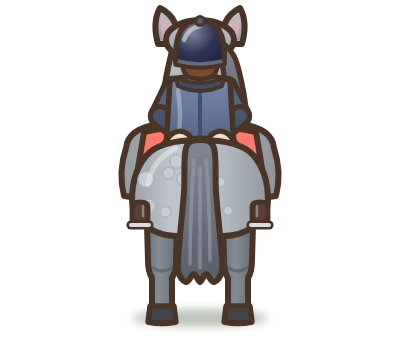
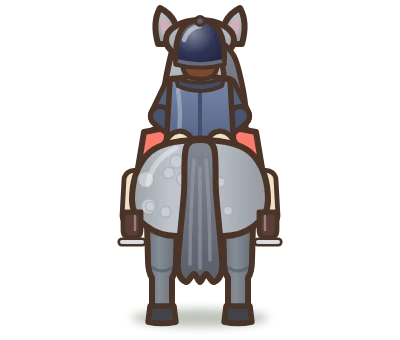
WIP: character.raceRider (rider layer over the race mount), MLS wiring
Claude-Session: https://claude.ai/code/session_011bftBeXudnSzAMBxDFXhpR

Changed region(s): [[0.6, 0.3529, 0.72, 0.7353], [0.27, 0.3529, 0.39, 0.7353]]

diff --git a/game.config.js b/game.config.js
@@ -154,6 +154,9 @@ window.GAME = {
       flank_golden: { path: "assets/img/flank_palomino.webp", res: 2 }, flank_golden_done: { path: "assets/img/flank_palomino_done.webp", res: 2 },
       flank_white: { path: "assets/img/flank_blanc.webp", res: 2 }, flank_white_done: { path: "assets/img/flank_blanc_done.webp", res: 2 },
       horse_back_bai: { path: "assets/img/horse_back_bai.webp", res: 2 }, horse_back_noir: { path: "assets/img/horse_back_noir.webp", res: 2 },
+      // race: the player's own rider seen from behind (drawn over the horse) + rival competitors
+      rider_back_fille: { path: "assets/img/rider_back_fille.webp", res: 2 }, rider_back_garcon: { path: "assets/img/rider_back_garcon.webp", res: 2 },
+      race_rival_noir: { path: "assets/img/race_rival_noir.webp", res: 2 }, race_rival_gris: { path: "assets/img/race_rival_gris.webp", res: 2 },
       horse_back_gris: { path: "assets/img/horse_back_gris.webp", res: 2 }, horse_back_palomino: { path: "assets/img/horse_back_palomino.webp", res: 2 },
       horse_back_blanc: { path: "assets/img/horse_back_blanc.webp", res: 2 },
       race_log: { path: "assets/img/race_log.webp", res: 2 }, race_hurdle: { path: "assets/img/race_hurdle.webp", res: 2 },
@@ -183,8 +186,8 @@ window.GAME = {
     shadow: { w: 34, h: 12 },
   },
   characters: [
-    { id: "fille", name: "Cavalière", sheet: "kid_fille", rideSheet: "kid_fille_ride", thumb: "assets/ui/kid_fille.webp" },
-    { id: "garcon", name: "Cavalier", sheet: "kid_garcon", rideSheet: "kid_garcon_ride", thumb: "assets/ui/kid_garcon.webp" },
+    { id: "fille", name: "Cavalière", sheet: "kid_fille", rideSheet: "kid_fille_ride", raceRider: "rider_back_fille", thumb: "assets/ui/kid_fille.webp" },
+    { id: "garcon", name: "Cavalier", sheet: "kid_garcon", rideSheet: "kid_garcon_ride", raceRider: "rider_back_garcon", thumb: "assets/ui/kid_garcon.webp" },
   ],
 
   /* ---- Horses ---- */
@@ -279,8 +282,8 @@ window.GAME = {
     obstacles: [
       { sprite: "race_log", every: 34, phase: 0, scale: 6.5, hw: 0.32, spread: 0.5 },
       { sprite: "race_hurdle", every: 46, phase: 20, scale: 6.5, hw: 0.32, spread: 0.5 },
-      { sprite: "horse_back_noir", every: 58, phase: 38, scale: 11, hw: 0.3, spread: 0.45 },
-      { sprite: "horse_back_gris", every: 58, phase: 9, scale: 11, hw: 0.3, spread: 0.45 },
+      { sprite: "race_rival_noir", every: 58, phase: 38, scale: 11, hw: 0.3, spread: 0.45 },
+      { sprite: "race_rival_gris", every: 58, phase: 9, scale: 11, hw: 0.3, spread: 0.45 },
     ],
     colors: { sky: ["#7cc6f0", "#a8dcf5", "#e8f6ff"], sun: ["#fff3a8", "#ffd24a"], skyline: false, ground: "#5ea446",
               grass: ["#78bb58", "#6cae4e"], road: ["#d9b37a", "#cfa86e"], rumble: ["#b88a55", "#a87c4a"], lane: "#e3c491", finish: ["#ffffff", "#4a3428"] },   // sandy cross path

diff --git a/engine.js b/engine.js
@@ -3595,6 +3595,10 @@ function startRace() {
   // variant.raceSprite: a dedicated rear view per variant (variants drawn as separate sheets, not tints)
   const v = variantDef(variantId(mounted)) || {}, base = r3Img(v.raceSprite || RACE.sprite);
   R3.car = base ? r3Tint(base, v.raceSprite ? null : (v.tint || null)) : null;
+  // character.raceRider: the player's own rider seen from behind, a layer drawn over the mount's rear view
+  // (same frame size) so any character x any mount works; none when the ride hides its rider (cars).
+  const rc = charDef(state.player.avatar), hide = CREATURE && CREATURE.ride && CREATURE.ride.hideRider;
+  R3.rider = !hide && rc && rc.raceRider ? r3Img(rc.raceRider) : null;
   r3Track();
   const T = RACE.track || {};
   R3.pos = R3.prevPos = R3.playerX = R3.speed = 0;
@@ -3731,6 +3735,8 @@ function r3Render() {
     R3.carDepth = carY > H / 2 + 1 ? R3.camD * R3.camH * (H / 2) / (carY - H / 2) : 0;
     const lean = R3.playerX * 16 + (R3.input.left ? -10 : 0) + (R3.input.right ? 10 : 0);
     ctx.drawImage(R3.car, W / 2 - w / 2 + lean, H - h - Math.max(90, H * 0.12) + bob, w, h);
+    // the rider rises and sinks a little against the mount (gallop), never detached from the saddle
+    if (R3.rider) ctx.drawImage(R3.rider, W / 2 - w / 2 + lean, H - h - Math.max(90, H * 0.12) + bob + Math.sin(R3.pos * 0.1) * h * 0.006, w, h);
   }
   ctx.restore();
   if (R3.hitFlash > 0) { ctx.fillStyle = "rgba(255,60,60," + (R3.hitFlash * 0.4).toFixed(3) + ")"; ctx.fillRect(0, 0, W, H); }

diff --git a/ENGINE.md b/ENGINE.md
@@ -203,10 +203,12 @@ Everything in `assets` is preloaded automatically (with cache-busting via `av()`
 ```
 player: { scale, speed:{walk,run,rideWalk,rideRun}, spawn:{x,y}, nameY, shadow:{w,h},
           frameRate, originY, showName }  // nameY = y offset of the name label above the head (default -80)
-characters: [ { id, name, sheet, thumb, rideSheet? } ]   // sheet = LPC walkcycle (9 cols × 4 rows: up,left,down,right;
+characters: [ { id, name, sheet, thumb, rideSheet?, raceRider? } ]   // sheet = LPC walkcycle (9 cols × 4 rows: up,left,down,right;
                                              // col 0 = idle) at any frame size; thumb in assets/ui/
                                              // rideSheet = ONE frame, the character SEATED (side view facing
                                              // left; flipped for right) shown while riding (ride.sitY places it)
+                                             // raceRider = image key: this rider SEEN FROM BEHIND, drawn over the
+                                             // mount's race rear view (same frame size) — see `race`
 ```
 
 ### `creature` (optional system)
@@ -518,6 +520,7 @@ A mounted action `type:"race"` covers the world with a full-screen canvas: the r
 to a horizon, your ride (`sprite`, multiplied by its variant tint) sits at the bottom, and
 you steer (left/right half of the screen, or arrow keys) to reach the finish before the timer
 runs out while dodging obstacles (hit where they reach the car on screen, not at the camera).
+A character's `raceRider` (image key, same frame size as the mount's rear view) is drawn over the mount, so the player sees their own rider from behind (skipped when `ride.hideRider`).
 A variant with its own `raceSprite` (e.g. creatures drawn as separate sheets) uses it instead of the tinted `race.sprite`. The ride's `speedMul` / `grip` change top speed / steering.
 The HUD (timer, distance, speed, quit, steering hints) is DOM with the game's icons.
 ```
